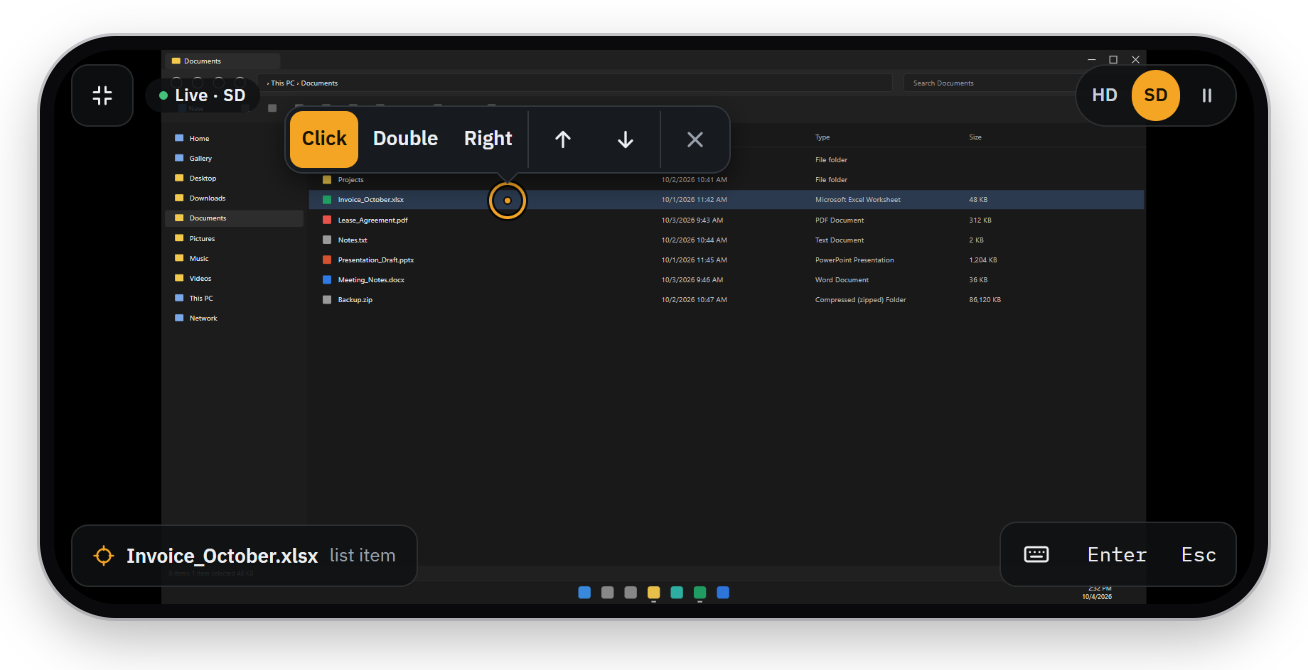
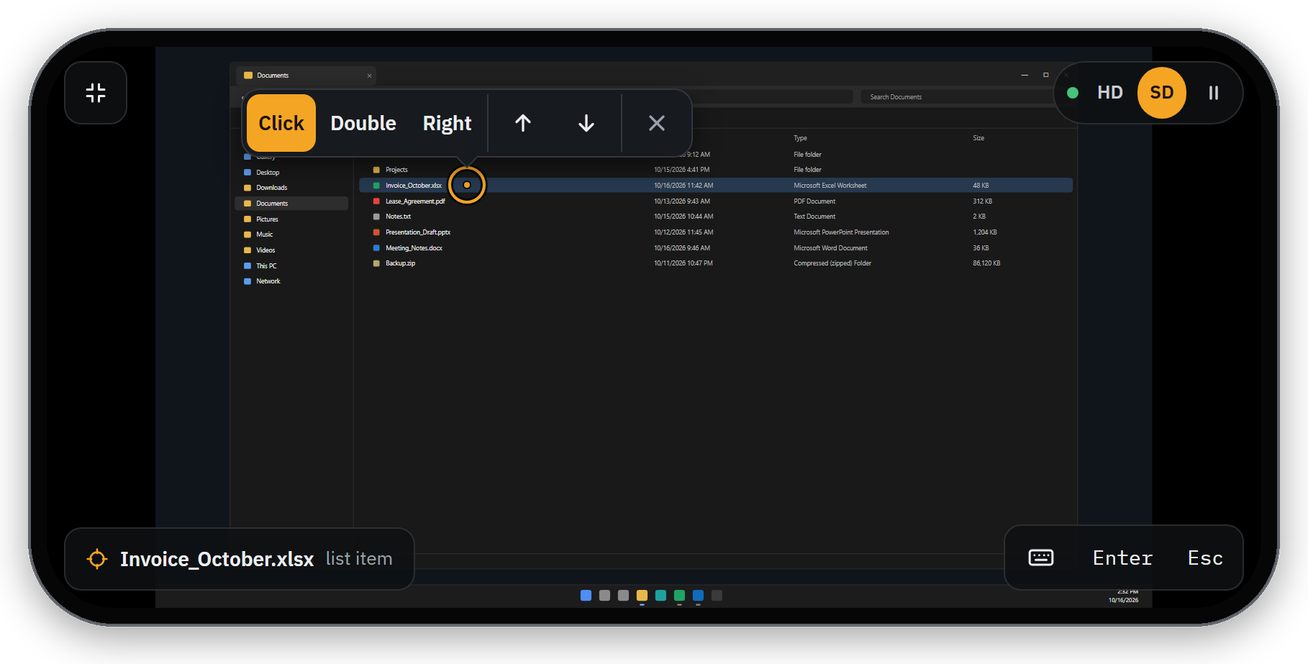
StrCu 1.1.0
README: six tabs, Quick mode, macros and tablets, with new screenshots
(made-up data) of the panel, macros, a tablet and full screen.

Claude-Session: https://claude.ai/code/session_01KWf8kYusuF5zzxoVmzkisz

Changed region(s): [[0.0, 0.0301, 0.9786, 0.9639], [0.6728, 0.1205, 0.7339, 0.1506]]

diff --git a/README.md b/README.md
@@ -10,11 +10,16 @@ program, click there". It is a single exe that serves a web panel; the phone nee
 </p>
 
 - **See the screen live** and tap to aim a crosshair; then click, double-click, right-click, scroll or type.
+  Or switch on **Quick**: a tap clicks, two taps double-click, a long press right-clicks or drags, and what you
+  type goes to the computer key by key.
 - **Keyboard:** type text into the foreground window, send shortcuts (Ctrl / Alt / Shift / Win held for the next
   key), F1–F12.
 - **Know what you are about to click.** Windows' own accessibility data (UI Automation) names the element under
   the crosshair and lists everything clickable in the window. No AI, no GPU, no extra install.
 - **Windows and apps:** bring a window to the front, maximize or close it; open any app from the Start menu.
+- **Macros:** record what you do in the panel or build the steps yourself (clicks, keys, text, apps, windows,
+  waits, repeats), then run them by hand or on a schedule.
+- **Phone first, tablets too:** on a tablet the screen image fills the page and every control stays in view.
 - **On your home Wi-Fi** out of the box, and **from anywhere** through a free Cloudflare Tunnel if you want.
 - **Sign in** with a password, pair a phone once with a QR code, or use a passkey (fingerprint / Face ID).
 - English and Turkish.
@@ -79,12 +84,19 @@ internet → Wi-Fi → your network → Network profile type → Private.
 
 ## The panel
 
-Five tabs: Screen, Keyboard, Elements, Windows, More.
+Six tabs: Screen, Keyboard, Elements, Windows, Macros, More.
 
 - **Top bar:** the foreground window with its app icon; tap it for the list of open windows. Shows when the
-  computer is locked. Next to it, the live view controls (HD / SD / ❚❚).
+  computer is locked. Next to it, the live view controls (HD / SD / ❚❚) with a dot: green while the image is
+  live, red when it is paused or lagging.
 - **Screen:** a tap aims the crosshair; a bar with Click / Double / Right, ↑ / ↓ (scroll) and ✕ appears next to
   it. Below the image, a magnifier and the element's name. A typing box and eight common keys sit underneath.
+- **Quick** (the switch under the image) skips the crosshair. A tap clicks, a quarter of a second later in case
+  a second tap follows; two taps double-click. Hold a finger still for half a second: lifting it right-clicks,
+  moving it drags with the left button held. If the phone loses its connection mid-drag, StrCu lets go of the
+  button by itself after three seconds. The typing box then sends each key as it is pressed: the phone
+  keyboard's corrections and suggestions come out right on the computer, Enter presses Enter, and Backspace
+  still deletes when the box is empty.
 - **Live view:** SD scales the long side to 1280 pixels, HD sends full resolution. The image refreshes every
   2.5 s while the Screen tab is open; ❚❚ freezes it.
 - **Keyboard:** a text box (types into the foreground window), modifier keys held for the next key, common keys,
@@ -92,20 +104,63 @@ Five tabs: Screen, Keyboard, Elements, Windows, More.
 - **Elements:** named clickable elements of the foreground window and the taskbar, filterable by name and kind.
 - **Windows:** open windows with their app icons; bring to front, maximize or close. **Open an app** lists the
   Start menu apps (classic and Store) with search and recent apps.
+- **Macros:** the macros, their schedules and last runs ([below](#macros)).
 - **More:** session and sign-out, passkeys, lock and shut down (with a 15 s countdown that can be cancelled),
   panel language and a log of what was done.
 
-**Full screen:** ⛶ or turn the phone sideways. Pinch to zoom, drag to pan, tap to aim.
+**Full screen:** ⛶ or turn the phone sideways. Pinch to zoom, drag to pan, tap to aim. With Quick on, taps
+and long presses work as above; a quick drag still pans the zoomed image.
 
 <img src="docs/fullscreen.png" alt="The panel in full screen on a phone held sideways, with the crosshair on a file and the click bar" width="640">
 
+**Tablets** (and wide browser windows): the Screen tab fills the page and the image takes all the room the
+controls leave. Held sideways, the tabs move to a rail on the left and the controls sit in one row under the
+image: view and Quick, the typing box, the element under the crosshair with a larger magnifier, and the keys.
+Held upright, the image spans the full width with the controls at the bottom. The other tabs stay a readable
+column in the middle.
+
+<img src="docs/tablet.png" alt="The panel on a tablet held sideways: tabs in a rail on the left, the screen image filling the page with the crosshair and click bar on a file, and one row of controls under it" width="720">
+
 The page loads nothing from outside; its fonts (IBM Plex) are built in.
 
-**What it cannot do:**
+### Macros
+
+<img src="docs/macros.png" alt="The Macros tab on a phone: the list of macros with their schedules and last runs, a macro set to run on weekdays at 09:00, its steps and recent runs, and the Screen tab while recording with Quick on" width="100%">
+
+A macro is a list of steps that StrCu runs in order on the computer:
+
+- **Mouse:** click, double-click or right-click, scroll, or drag from one element to another.
+- **Keyboard:** type text (`{date}` and `{time}` are filled in when it runs), press a key or shortcut a number
+  of times.
+- **Apps and windows:** open a Start menu app, a file, a folder or a web page; bring an app's window to the
+  front, maximize, minimize or close it.
+- **Waits:** a number of seconds, until an app's window opens, or until an element appears.
+- **Flow:** repeat the steps before it a number of times, or run another macro.
+- **As the last step:** lock the computer or shut it down.
+
+An element is found again the way a person would find it: its app's window comes to the front, then the
+element is looked up by its name (the one nearest to where it was, if there are several); without a name, the
+same point in the window is used. Such a step is set on the live screen: aim at the element and tap
+**Choose**. Each step can be tried on its own, and a step can be set to let the macro go on if it fails.
+
+**Start recording** turns what you do in the panel into steps: taps and drags, keys, text (typed live it
+becomes one step, corrections left out), apps opened (with a wait for their window), windows brought to the
+front, maximized or closed. A red bar shows how many steps there are; **Done** adds them to a macro, where they
+can be edited.
+
+**When:** by hand, on chosen days at a time, once at a date and time, or every so many minutes between two
+times on chosen days. Schedules use the computer's clock and run on the computer, so the phone can be off.
+A scheduled start is skipped and logged when the computer is locked, someone is using it at that moment, or
+another macro is running or being recorded. A run stops as soon as someone uses the mouse or keyboard at the
+computer or uses the panel; a step that fails stops it too, and a screenshot of that moment is kept with the
+macro. Each macro lists its last runs. Macros are kept in `%LOCALAPPDATA%\strcu\macros.json`.
+
+### What it cannot do
 
 - Unlock the computer. A locked computer shows as locked; locking works, unlocking needs someone at the desk.
 - Click or type into windows that run as administrator (often Task Manager and installers): Windows does not
   let a normal program do that. The same goes for the UAC prompt.
+- Run a macro while the computer is locked: Windows shows nothing to click until someone unlocks it.
 
 ## Remote access (optional)
 
@@ -217,6 +272,7 @@ and placeholders as `lang/en.json`.
 - `src/sys/` operating system layer (screen, input, windows, UI Automation, power, apps, icons, discovery,
   child processes)
 - `src/server.rs` + `src/web/` the panel; `src/worker.rs` runs operating system work in order on one thread
+- `src/macros/` macros: steps and storage, schedules, the runner and recording
 - `src/app.rs` what runs while StrCu is open (listener, tunnel watcher); `src/tui/` the terminal screens, plain
   functions from state to frames that the terminal draws and `strcu dev preview` turns into HTML
 - `src/auth.rs` sign-in, `src/pair.rs` paired phones, `src/passkey.rs` passkeys, `src/access.rs` Cloudflare
